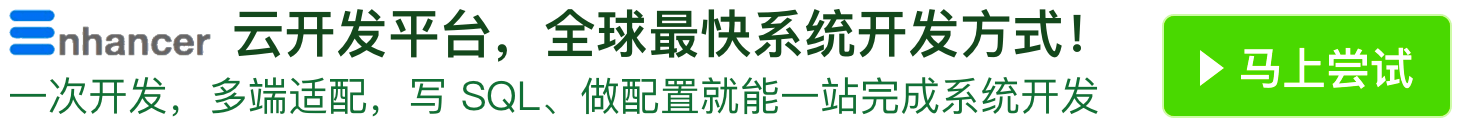
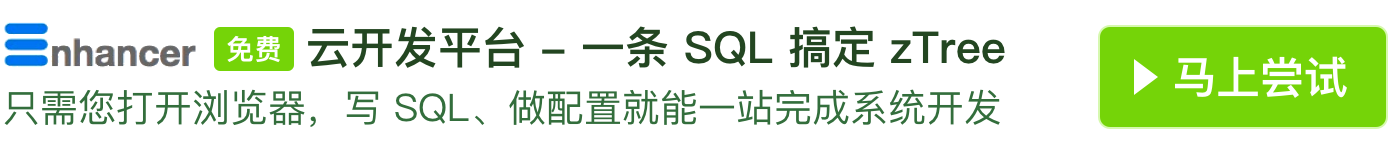
更换广告图片

diff --git a/zTreeWeb/web3.0_Design/css/common.css b/zTreeWeb/web3.0_Design/css/common.css
@@ -45,9 +45,11 @@ h4 {font-size: 14px;font-weight: normal;line-height: 25px;}
 .header-text {padding: 10px 25px 15px 150px;font-size: 18px;line-height: 24px;color: #747d67;font-family: Helvetica, sans-serif;}
 .header-text h1 {margin-bottom: 8px;}
 .header-text img {padding-bottom: 5px;}
-.header-ad-container {position: relative;width: 940px;margin: 5px auto 0;height: 68px;border: 1px solid white;background: transparent url(../img/contact-bg.png) repeat-x 0 -50px;padding: 4px;box-sizing: border-box;}
+/*.header-ad-container {position: relative;width: 940px;margin: 5px auto 0;height: 68px;border: 1px solid white;background: transparent url(../img/contact-bg.png) repeat-x 0 -50px;padding: 4px;box-sizing: border-box;}*/
+.header-ad-container {position: relative;width: 940px;margin: 5px auto 0;height: 88px;border: 1px solid white;background: transparent url(../img/contact-bg.png) repeat-x 0 -50px;padding: 4px;box-sizing: border-box;}
 .header-ad {text-align: center;}
-.header-ad-container img {height: 60px;}
+/*.header-ad-container img {height: 60px;}*/
+.header-ad-container img {height: 80px;}
 .header-ad-container .ad-alert {position: absolute;bottom: 0px;right: 16px;color: #6d9838;}
 .shortcuts {white-space: nowrap;text-align: right;position: absolute;top: -45px;right: 5px;}
 .shortcuts.language {top: -85px;right:0px;}

diff --git a/zTreeWeb/web3.0_Design/head.php b/zTreeWeb/web3.0_Design/head.php
@@ -74,12 +74,12 @@ require("lang/" . $lang . "/" . $page . ".php");
 if ($lang == "cn") {
 	$menu_lang = $menu_english;
 	$chgLang = "en";
-	$headerAdFile = "enhancer-ads-cn.png?20190326";
+	$headerAdFile = "enhancer-ads-cn.png?20190424";
 	$headerAdUrl = "https://enhancer.io";
 } else {
 	$menu_lang = $menu_chinese;
 	$chgLang = "cn";
-	$headerAdFile = "enhancer-ads-en.png?20190326";
+	$headerAdFile = "enhancer-ads-en.png?20190424";
 	$headerAdUrl = "https://enhancer.io?lang=en";
 }
 // 过期时间：30天
